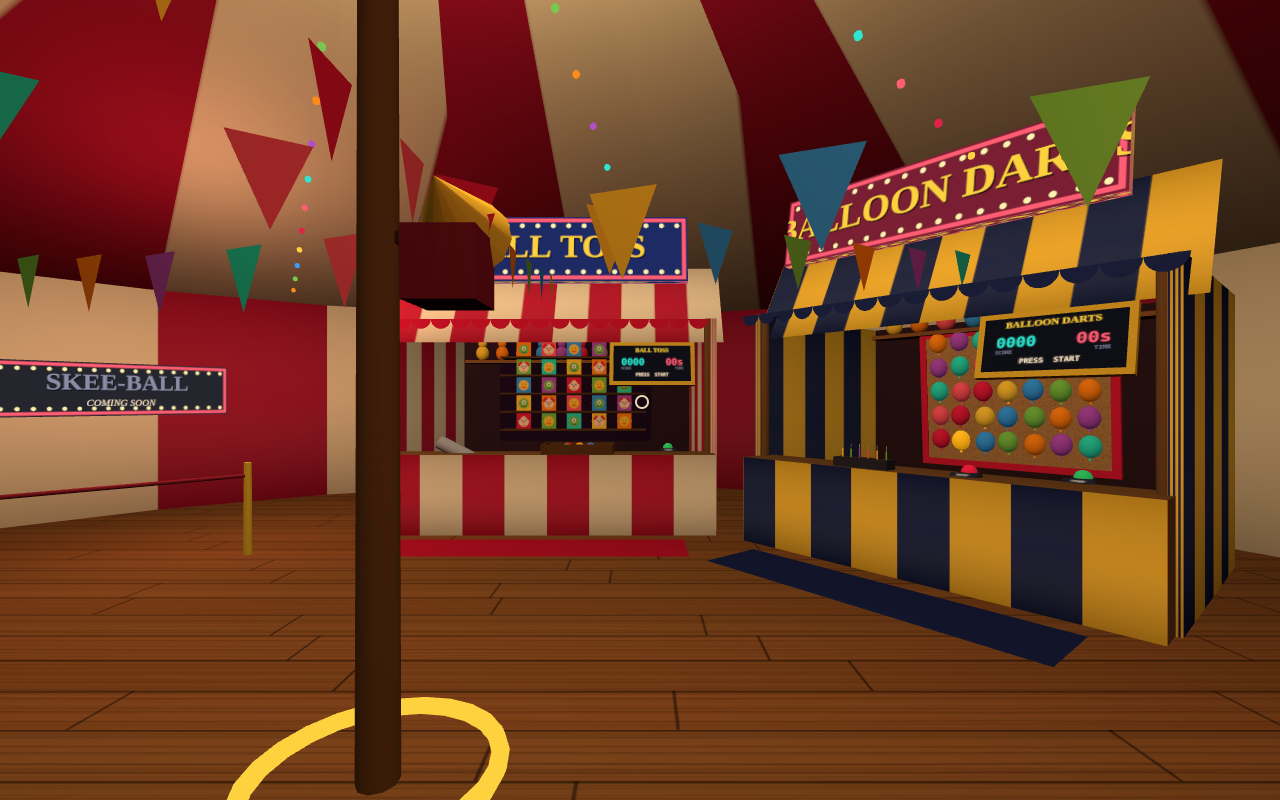
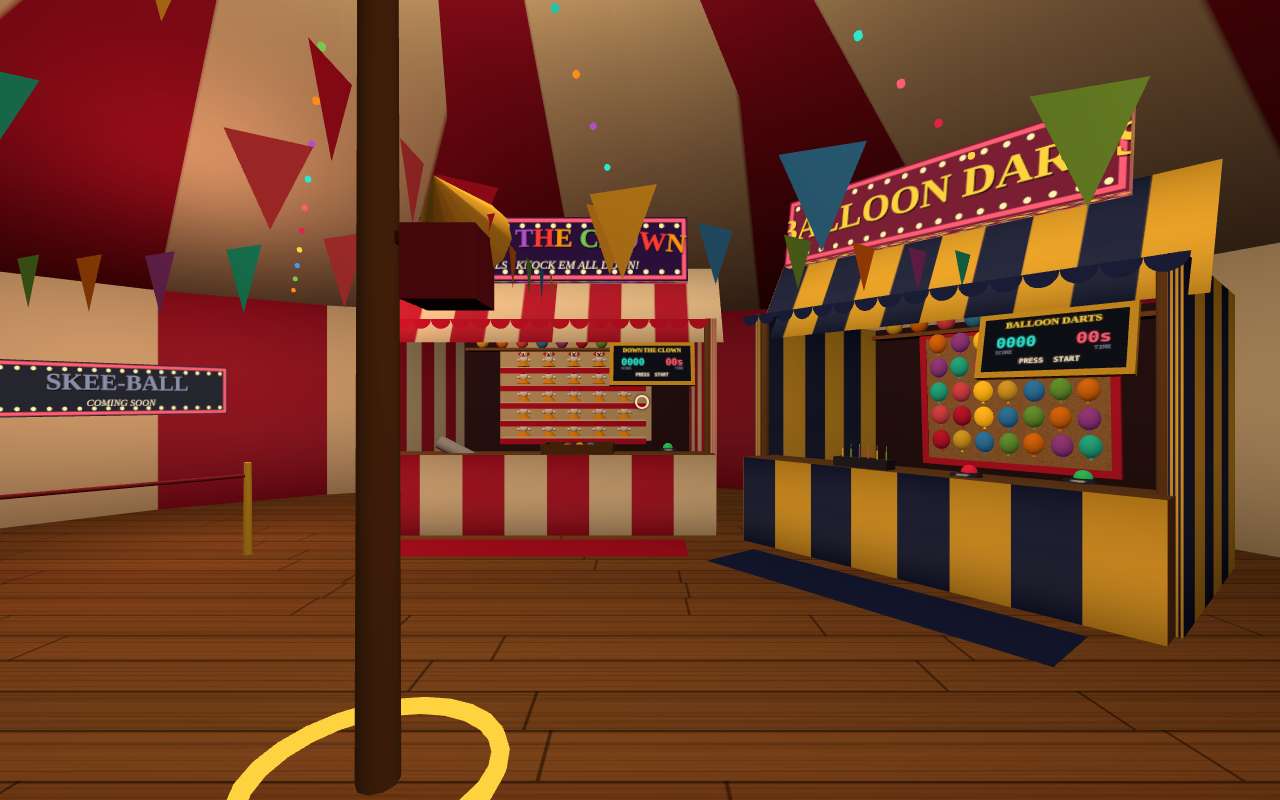
Restyle ball toss as Down the Clown boardwalk cabinet
- Targets are now 3D plush clown dolls (white body, yellow ruffled
  dress, hair puffs, blue nose) — one merged vertex-colored geometry
  shared by all 25, so the wall stays at 25 draw calls
- Cream shelf boards with red fascia lips and beadboard backing,
  matching the classic Dave & Buster's cabinet
- Rows lowered so the prize shelf sits clear above the top row
- New arched rainbow marquee lettering option in signTexture, used
  for the DOWN THE CLOWN sign

Claude-Session: https://claude.ai/code/session_01MoQaP7ADydoDvBieeHcWMh

diff --git a/src/games/BallTossGame.js b/src/games/BallTossGame.js
@@ -1,20 +1,26 @@
 import * as THREE from 'three';
+import { mergeGeometries } from 'three/addons/utils/BufferGeometryUtils.js';
 import { MiniGame } from './registry.js';
 import { BoothBase } from '../components/BoothBase.js';
 import { BoxCollider, ForceZone, SphereBody } from '../core/Physics.js';
-import { targetFaceTexture, randomTargetKind, CARNIVAL_PALETTE } from '../core/textures.js';
+import { CARNIVAL_PALETTE } from '../core/textures.js';
 
 /**
- * BALL TOSS — knock down the 5x5 wall of plush targets.
+ * DOWN THE CLOWN — knock down the 5x5 wall of plush clown dolls,
+ * boardwalk / Dave & Buster's style.
  *
  * A chute dispenses six foam softballs into a counter tray. Throw them at
- * the target wall; solid hits knock targets backwards on their hinges,
- * glancing hits make them wobble. Balls bounce around the booth, get swept
- * to a grate at the base of the wall by the sloped floor (a force zone),
- * ride a return pipe, and pop back out into the tray.
+ * the shelves of plush clowns; solid hits knock dolls backwards on their
+ * hinges, glancing hits make them wobble. Balls bounce around the booth,
+ * get swept to a grate at the base of the wall by the sloped floor (a
+ * force zone), ride a return pipe, and pop back out into the tray.
  *
  * Rows score 10/20/30/40/50 bottom→top. Clearing all 25 ends the round
  * early with a +150 bonus and a fanfare.
+ *
+ * Each clown is ONE mesh: all its parts (body, ruff, head, hair, face)
+ * are merged into a single vertex-coloured geometry shared by all 25
+ * dolls, so the whole wall costs 25 draw calls.
  */
 
 const BALL_COUNT = 6;
@@ -33,10 +39,12 @@ export class BallTossGame extends MiniGame {
     const { world, audio, grabbables } = deps;
 
     this.booth = new BoothBase(deps, {
-      name: 'BALL TOSS',
+      name: 'DOWN THE CLOWN',
+      scoreboardTitle: 'DOWN THE CLOWN',
       width: 4, depth: 3, pad,
       colorA: '#c2183c', colorB: '#f6ead7',
-      signColors: { bg: '#1d2a63', fg: '#ffd23f' },
+      signColors: { bg: '#2a0f38', rainbow: true, sub: '6 BALLS · KNOCK EM ALL DOWN!' },
+      shelfY: 2.46, // prize shelf clears the top clown row
       onStart: () => this.tryStart(),
     });
     const g = this.booth.group;
@@ -84,44 +92,88 @@ export class BallTossGame extends MiniGame {
     }
   }
 
-  /** 5x5 plush faces on shelf rows, hinged at the base */
+  /**
+   * One merged, vertex-coloured plush-clown geometry: white pear body,
+   * yellow ruffled dress + collar, white head with orange hair puffs,
+   * blue nose, bead eyes, red grin, yellow pom on top. Base sits at y=0
+   * (the hinge line), face looks down +Z at the player.
+   */
+  static #buildClownGeometry() {
+    const paint = (geo, hex) => {
+      const c = new THREE.Color(hex).convertSRGBToLinear();
+      const n = geo.attributes.position.count;
+      const colors = new Float32Array(n * 3);
+      for (let i = 0; i < n; i++) colors.set([c.r, c.g, c.b], i * 3);
+      geo.setAttribute('color', new THREE.BufferAttribute(colors, 3));
+      geo.deleteAttribute('uv'); // mergeGeometries wants matching attributes
+      return geo;
+    };
+    const PLUSH = '#ffffff', YELLOW = '#ffd23f', HAIR = '#ff6a2a';
+    const parts = [
+      // yellow dress skirt with white chest and arms above — mostly-white
+      // doll with a yellow band, like the real boardwalk plush
+      paint(new THREE.ConeGeometry(0.1, 0.13, 11), YELLOW).translate(0, 0.085, 0),
+      paint(new THREE.SphereGeometry(0.06, 10, 8), PLUSH)
+        .scale(1, 1.15, 0.85).translate(0, 0.16, 0),
+      paint(new THREE.SphereGeometry(0.028, 7, 5), PLUSH).translate(-0.078, 0.14, 0),
+      paint(new THREE.SphereGeometry(0.028, 7, 5), PLUSH).translate(0.078, 0.14, 0),
+      // head
+      paint(new THREE.SphereGeometry(0.058, 10, 8), PLUSH).translate(0, 0.235, 0),
+      // hair puffs
+      paint(new THREE.SphereGeometry(0.03, 7, 5), HAIR).translate(-0.056, 0.248, 0),
+      paint(new THREE.SphereGeometry(0.03, 7, 5), HAIR).translate(0.056, 0.248, 0),
+      // face: blue nose, bead eyes, red grin
+      paint(new THREE.SphereGeometry(0.017, 7, 5), '#3a6bff').translate(0, 0.235, 0.05),
+      paint(new THREE.SphereGeometry(0.009, 5, 4), '#1b1b1b').translate(-0.022, 0.256, 0.046),
+      paint(new THREE.SphereGeometry(0.009, 5, 4), '#1b1b1b').translate(0.022, 0.256, 0.046),
+      paint(new THREE.SphereGeometry(1, 8, 5), '#d4302f')
+        .scale(0.028, 0.011, 0.009).translate(0, 0.207, 0.048),
+    ];
+    const merged = mergeGeometries(parts);
+    // squat plush proportions; height stays clear of the shelf above
+    merged.scale(1.14, 0.93, 0.93);
+    return merged;
+  }
+
+  /** 5x5 plush clowns on chunky cream-and-red shelf rows, hinged at the base */
   #buildTargets() {
     const g = this.booth.group;
-    const shelfMat = new THREE.MeshLambertMaterial({ color: 0x54371f });
-    const plateGeo = new THREE.BoxGeometry(0.24, 0.26, 0.035);
-    const faceGeo = new THREE.CircleGeometry(0.125, 20);
     const { physics } = this.deps.world;
+    const shelfTopMat = new THREE.MeshLambertMaterial({ color: 0xf2e6cd }); // cream boards
+    const fasciaMat = new THREE.MeshLambertMaterial({ color: 0xc2183c });  // red shelf lips
+    const clownGeo = BallTossGame.#buildClownGeometry();
+    const clownMat = new THREE.MeshLambertMaterial({ vertexColors: true });
 
     for (let row = 0; row < GRID; row++) {
-      const shelfY = 1.12 + row * 0.3;
-      // shelf board (visual + collider so balls ricochet off ledges)
-      const shelf = new THREE.Mesh(new THREE.BoxGeometry(2.4, 0.03, 0.3), shelfMat);
+      // rows sit just above the counter and stop below the prize shelf
+      const shelfY = 0.98 + row * 0.29;
+      // shelf: cream board (visual + collider so balls ricochet off ledges)
+      // with a red fascia strip along the front edge, like the real cabinet
+      const shelf = new THREE.Mesh(new THREE.BoxGeometry(2.4, 0.03, 0.3), shelfTopMat);
       shelf.position.set(0, shelfY - 0.016, -1.05);
-      g.add(shelf);
+      const fascia = new THREE.Mesh(new THREE.BoxGeometry(2.4, 0.09, 0.02), fasciaMat);
+      fascia.position.set(0, shelfY - 0.06, -0.89);
+      g.add(shelf, fascia);
       physics.colliderFromMesh(shelf, new THREE.Vector3(2.4, 0.03, 0.3), { restitution: 0.3, tag: 'wood' });
 
       for (let col = 0; col < GRID; col++) {
         const x = -0.84 + col * 0.42;
-        const kind = randomTargetKind(row * GRID + col);
-        const tint = '#' + new THREE.Color(CARNIVAL_PALETTE[(row + col * 3) % CARNIVAL_PALETTE.length]).getHexString();
 
         const root = new THREE.Group();          // hinge point on the shelf
         root.position.set(x, shelfY, -1.05);
         const pivot = new THREE.Group();          // rotates backwards when hit
         root.add(pivot);
-        const plate = new THREE.Mesh(plateGeo, new THREE.MeshLambertMaterial({ color: tint }));
-        plate.position.y = 0.13;
-        const face = new THREE.Mesh(faceGeo,
-          new THREE.MeshLambertMaterial({ map: targetFaceTexture(kind, tint) }));
-        face.position.set(0, 0.13, 0.019);
-        pivot.add(plate, face);
+        const doll = new THREE.Mesh(clownGeo, clownMat);
+        pivot.add(doll);
         g.add(root);
 
-        // world-space collider matching the standing plate
+        // world-space collider wrapping the standing doll
         root.updateWorldMatrix(true, true);
-        const collider = physics.colliderFromMesh(plate, new THREE.Vector3(0.24, 0.26, 0.05), {
-          restitution: 0.25, tag: 'target',
-        });
+        const center = root.localToWorld(new THREE.Vector3(0, 0.135, 0));
+        const collider = physics.addCollider(new BoxCollider(
+          center, new THREE.Vector3(0.115, 0.135, 0.05), this._worldQuat,
+          { restitution: 0.25, tag: 'target' },
+        ));
 
         const target = {
           pivot, collider, row,
@@ -130,17 +182,17 @@ export class BallTossGame extends MiniGame {
           wobble: 0, wobbleVel: 0,
           downTime: 0,
           points: 10 + row * 10,
-          worldPos: plate.getWorldPosition(new THREE.Vector3()),
+          worldPos: center.clone(),
         };
         collider.onHit = (body, impact) => this.#onTargetHit(target, impact);
         this.targets.push(target);
       }
     }
 
-    // backboard behind the targets keeps balls from wedging behind shelves
+    // cream beadboard backing keeps balls from wedging behind the shelves
     const backboard = new THREE.Mesh(
       new THREE.PlaneGeometry(2.6, 1.9),
-      new THREE.MeshLambertMaterial({ color: 0x24122e }),
+      new THREE.MeshLambertMaterial({ color: 0xd9c9a8 }),
     );
     backboard.position.set(0, 1.85, -1.32);
     this.booth.group.add(backboard);

diff --git a/src/core/textures.js b/src/core/textures.js
@@ -89,8 +89,14 @@ export function woodTexture(base = '#8a5a33') {
   return toTexture(c, 6, 6);
 }
 
-/** Painted booth sign with bold lettering + light-bulb border dots. */
-export function signTexture(text, { bg = '#1d2a63', fg = '#ffd23f', accent = '#ff5d73', sub = '' } = {}) {
+/**
+ * Painted booth sign with bold lettering + light-bulb border dots.
+ * `rainbow: true` draws each letter in a different candy colour along a
+ * gentle arch — the classic boardwalk "DOWN THE CLOWN" marquee look.
+ */
+export function signTexture(text, {
+  bg = '#1d2a63', fg = '#ffd23f', accent = '#ff5d73', sub = '', rainbow = false,
+} = {}) {
   const [c, ctx] = makeCanvas(1024, 256);
   ctx.fillStyle = bg;
   ctx.fillRect(0, 0, 1024, 256);
@@ -105,14 +111,38 @@ export function signTexture(text, { bg = '#1d2a63', fg = '#ffd23f', accent = '#f
       ctx.beginPath(); ctx.arc(x, y, 9, 0, Math.PI * 2); ctx.fill();
     }
   }
-  // main text with drop shadow
   ctx.textAlign = 'center';
   ctx.textBaseline = 'middle';
-  ctx.font = `bold ${sub ? 108 : 128}px Georgia, serif`;
-  ctx.fillStyle = 'rgba(0,0,0,0.55)';
-  ctx.fillText(text, 517, sub ? 108 : 134);
-  ctx.fillStyle = fg;
-  ctx.fillText(text, 512, sub ? 102 : 128);
+  const mainY = sub ? 102 : 128;
+  if (rainbow) {
+    // per-letter colours on a shallow arch, slight per-letter tilt
+    const letterColors = ['#ff3b30', '#ff9500', '#ffd23f', '#7ac74f', '#3aa0ff', '#b14fc9'];
+    const size = sub ? 104 : 122;
+    ctx.font = `bold ${size}px Georgia, serif`;
+    const widths = [...text].map(ch => ctx.measureText(ch).width);
+    const total = widths.reduce((a, b) => a + b, 0);
+    let x = 512 - total / 2;
+    [...text].forEach((ch, i) => {
+      const cx = x + widths[i] / 2;
+      const t = (cx - 512) / (total / 2 || 1);      // -1..1 across the word
+      const y = mainY + 26 * t * t - 10;             // arch: ends dip down
+      ctx.save();
+      ctx.translate(cx, y);
+      ctx.rotate(t * 0.12);
+      ctx.fillStyle = 'rgba(0,0,0,0.55)';
+      ctx.fillText(ch, 4, 6);
+      ctx.fillStyle = ch === ' ' ? 'transparent' : letterColors[i % letterColors.length];
+      ctx.fillText(ch, 0, 0);
+      ctx.restore();
+      x += widths[i];
+    });
+  } else {
+    ctx.font = `bold ${sub ? 108 : 128}px Georgia, serif`;
+    ctx.fillStyle = 'rgba(0,0,0,0.55)';
+    ctx.fillText(text, 517, mainY + 6);
+    ctx.fillStyle = fg;
+    ctx.fillText(text, 512, mainY);
+  }
   if (sub) {
     ctx.font = 'italic 44px Georgia, serif';
     ctx.fillStyle = '#ffe9c9';

diff --git a/README.md b/README.md
@@ -9,8 +9,8 @@ teleport between.
 
 **Playable now:**
 
-- **🎯 Ball Toss** — a chute dispenses six foam softballs into your tray.
-  Knock down the 5×5 wall of plush clowns, ducks and monsters before the
+- **🎯 Down the Clown (ball toss)** — a chute dispenses six foam softballs into your tray.
+  Knock down the 5×5 wall of plush carnival clowns before the
   timer runs out. Targets wobble on glancing hits and slam backwards on
   solid ones; balls bounce around the stall, get swept into the grate at
   the base of the wall and ride the return pipe back to your tray.